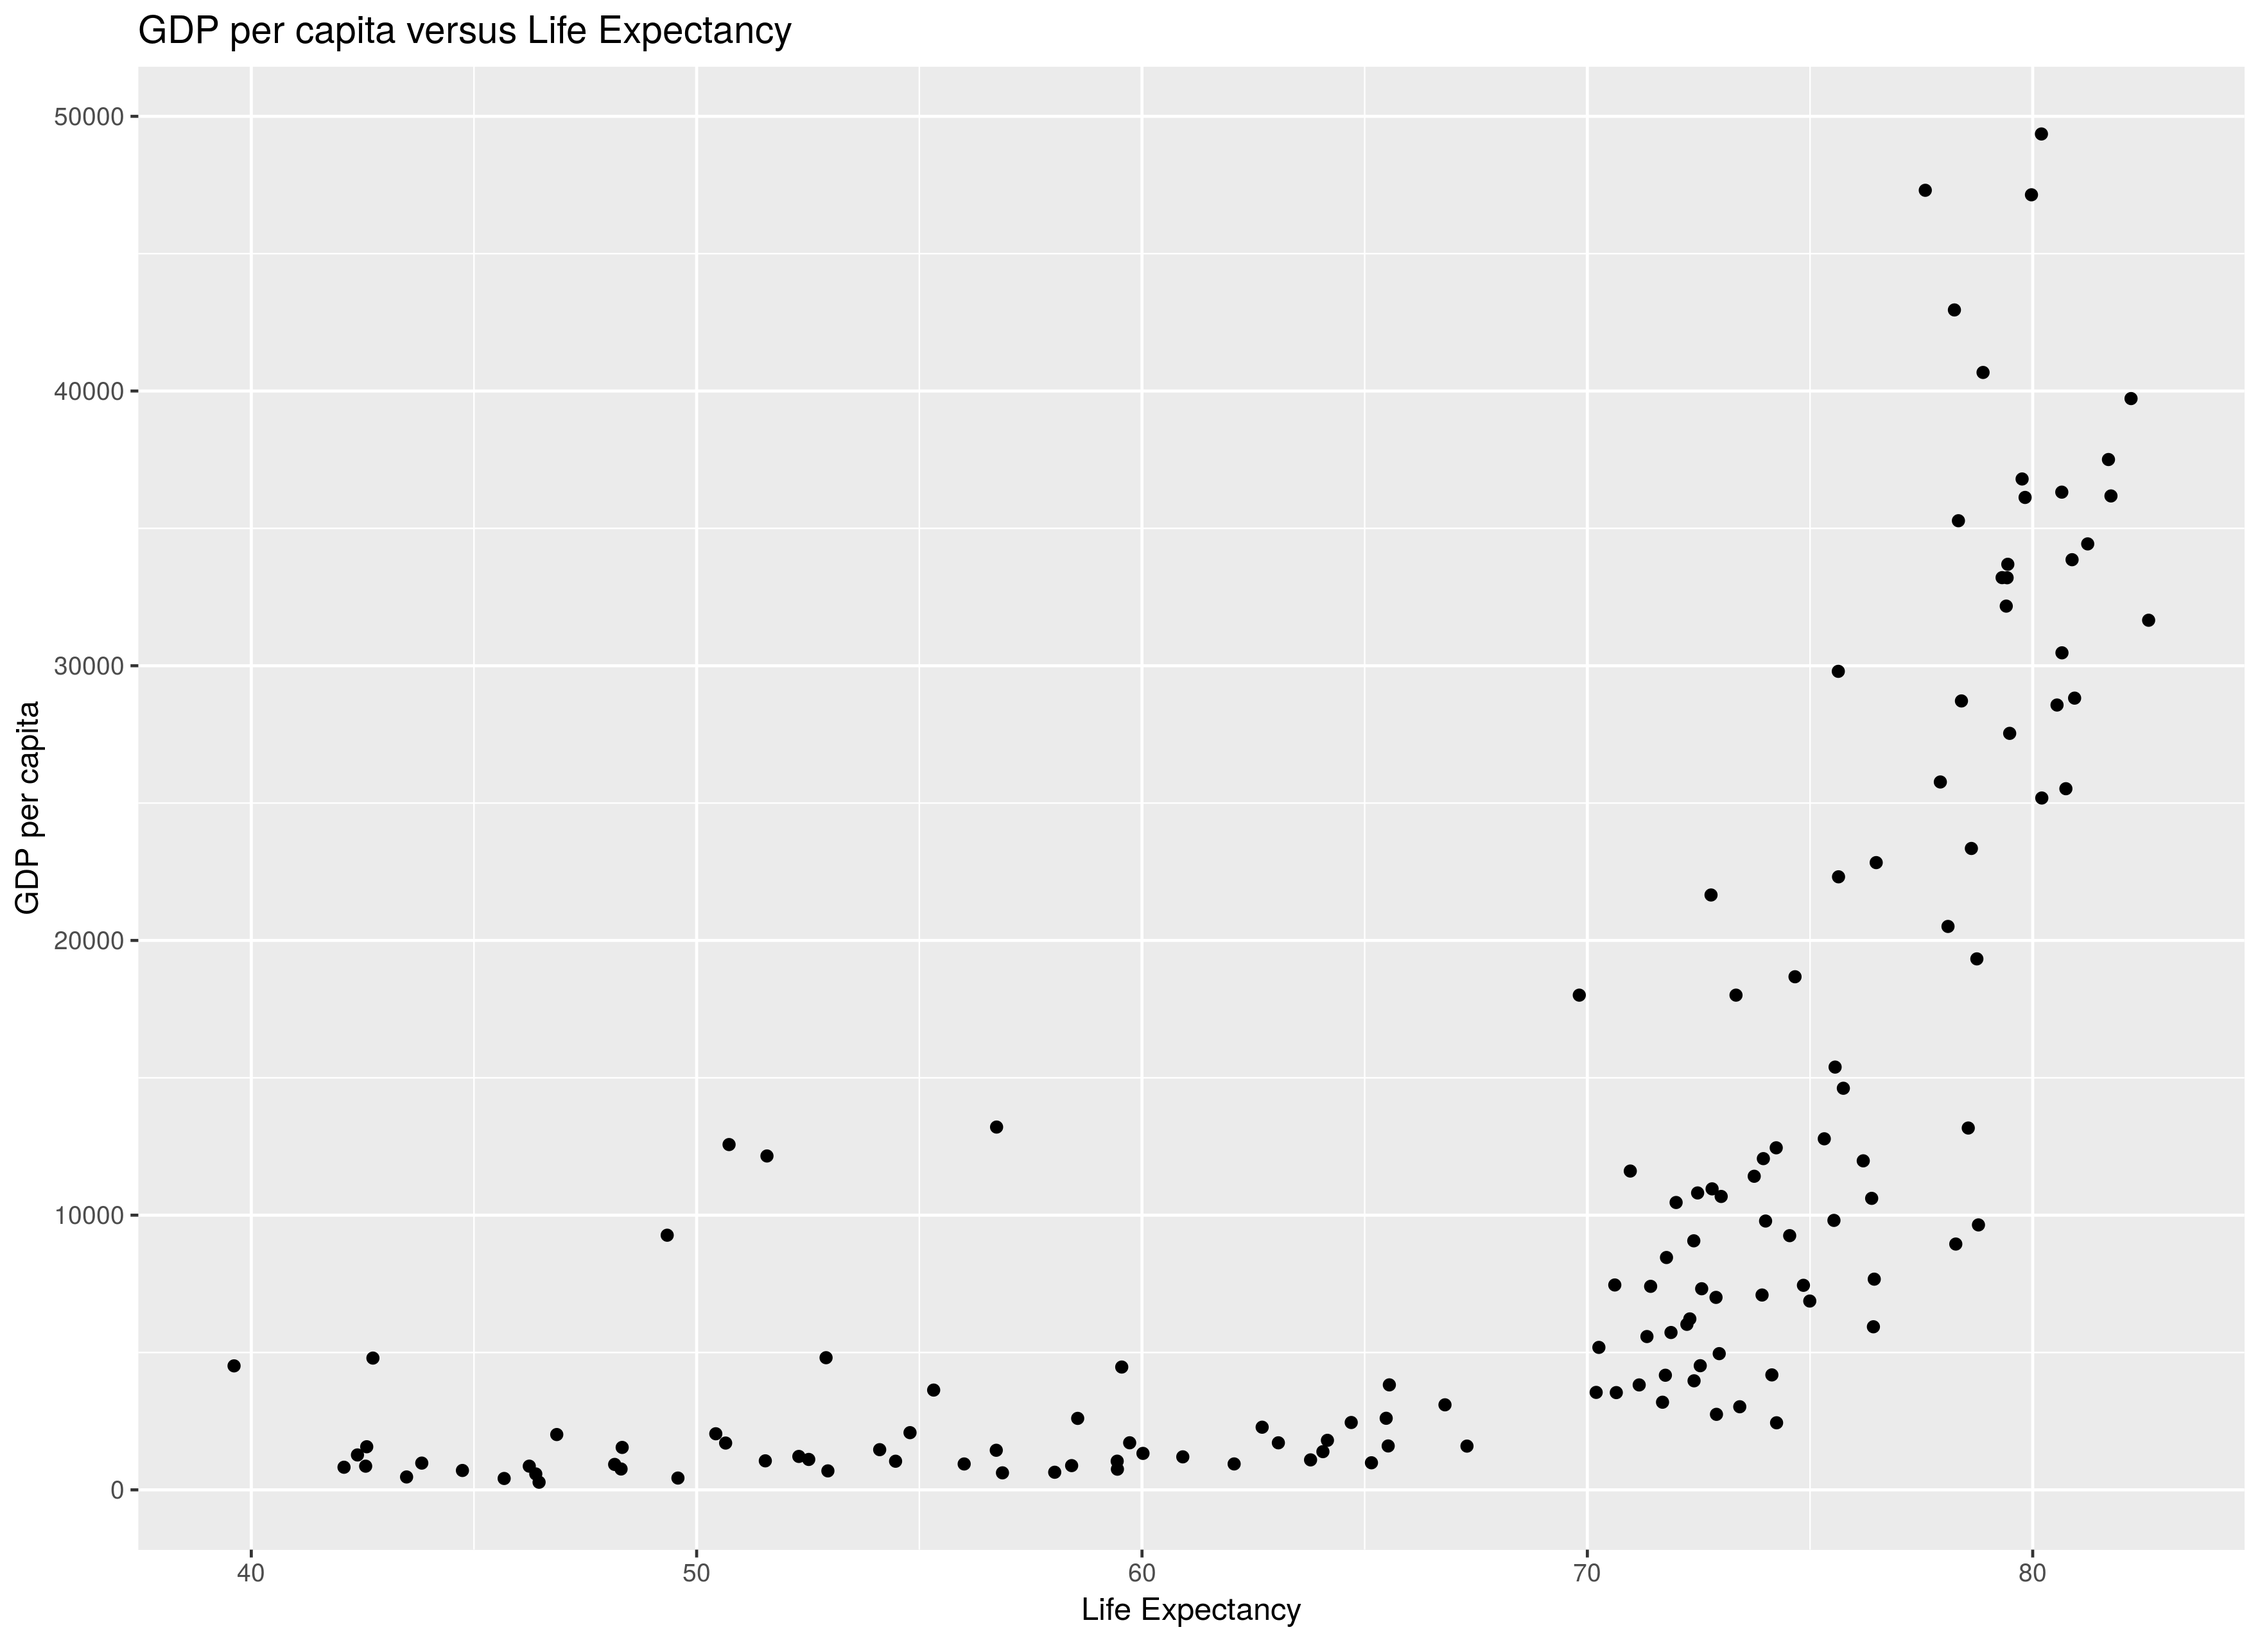
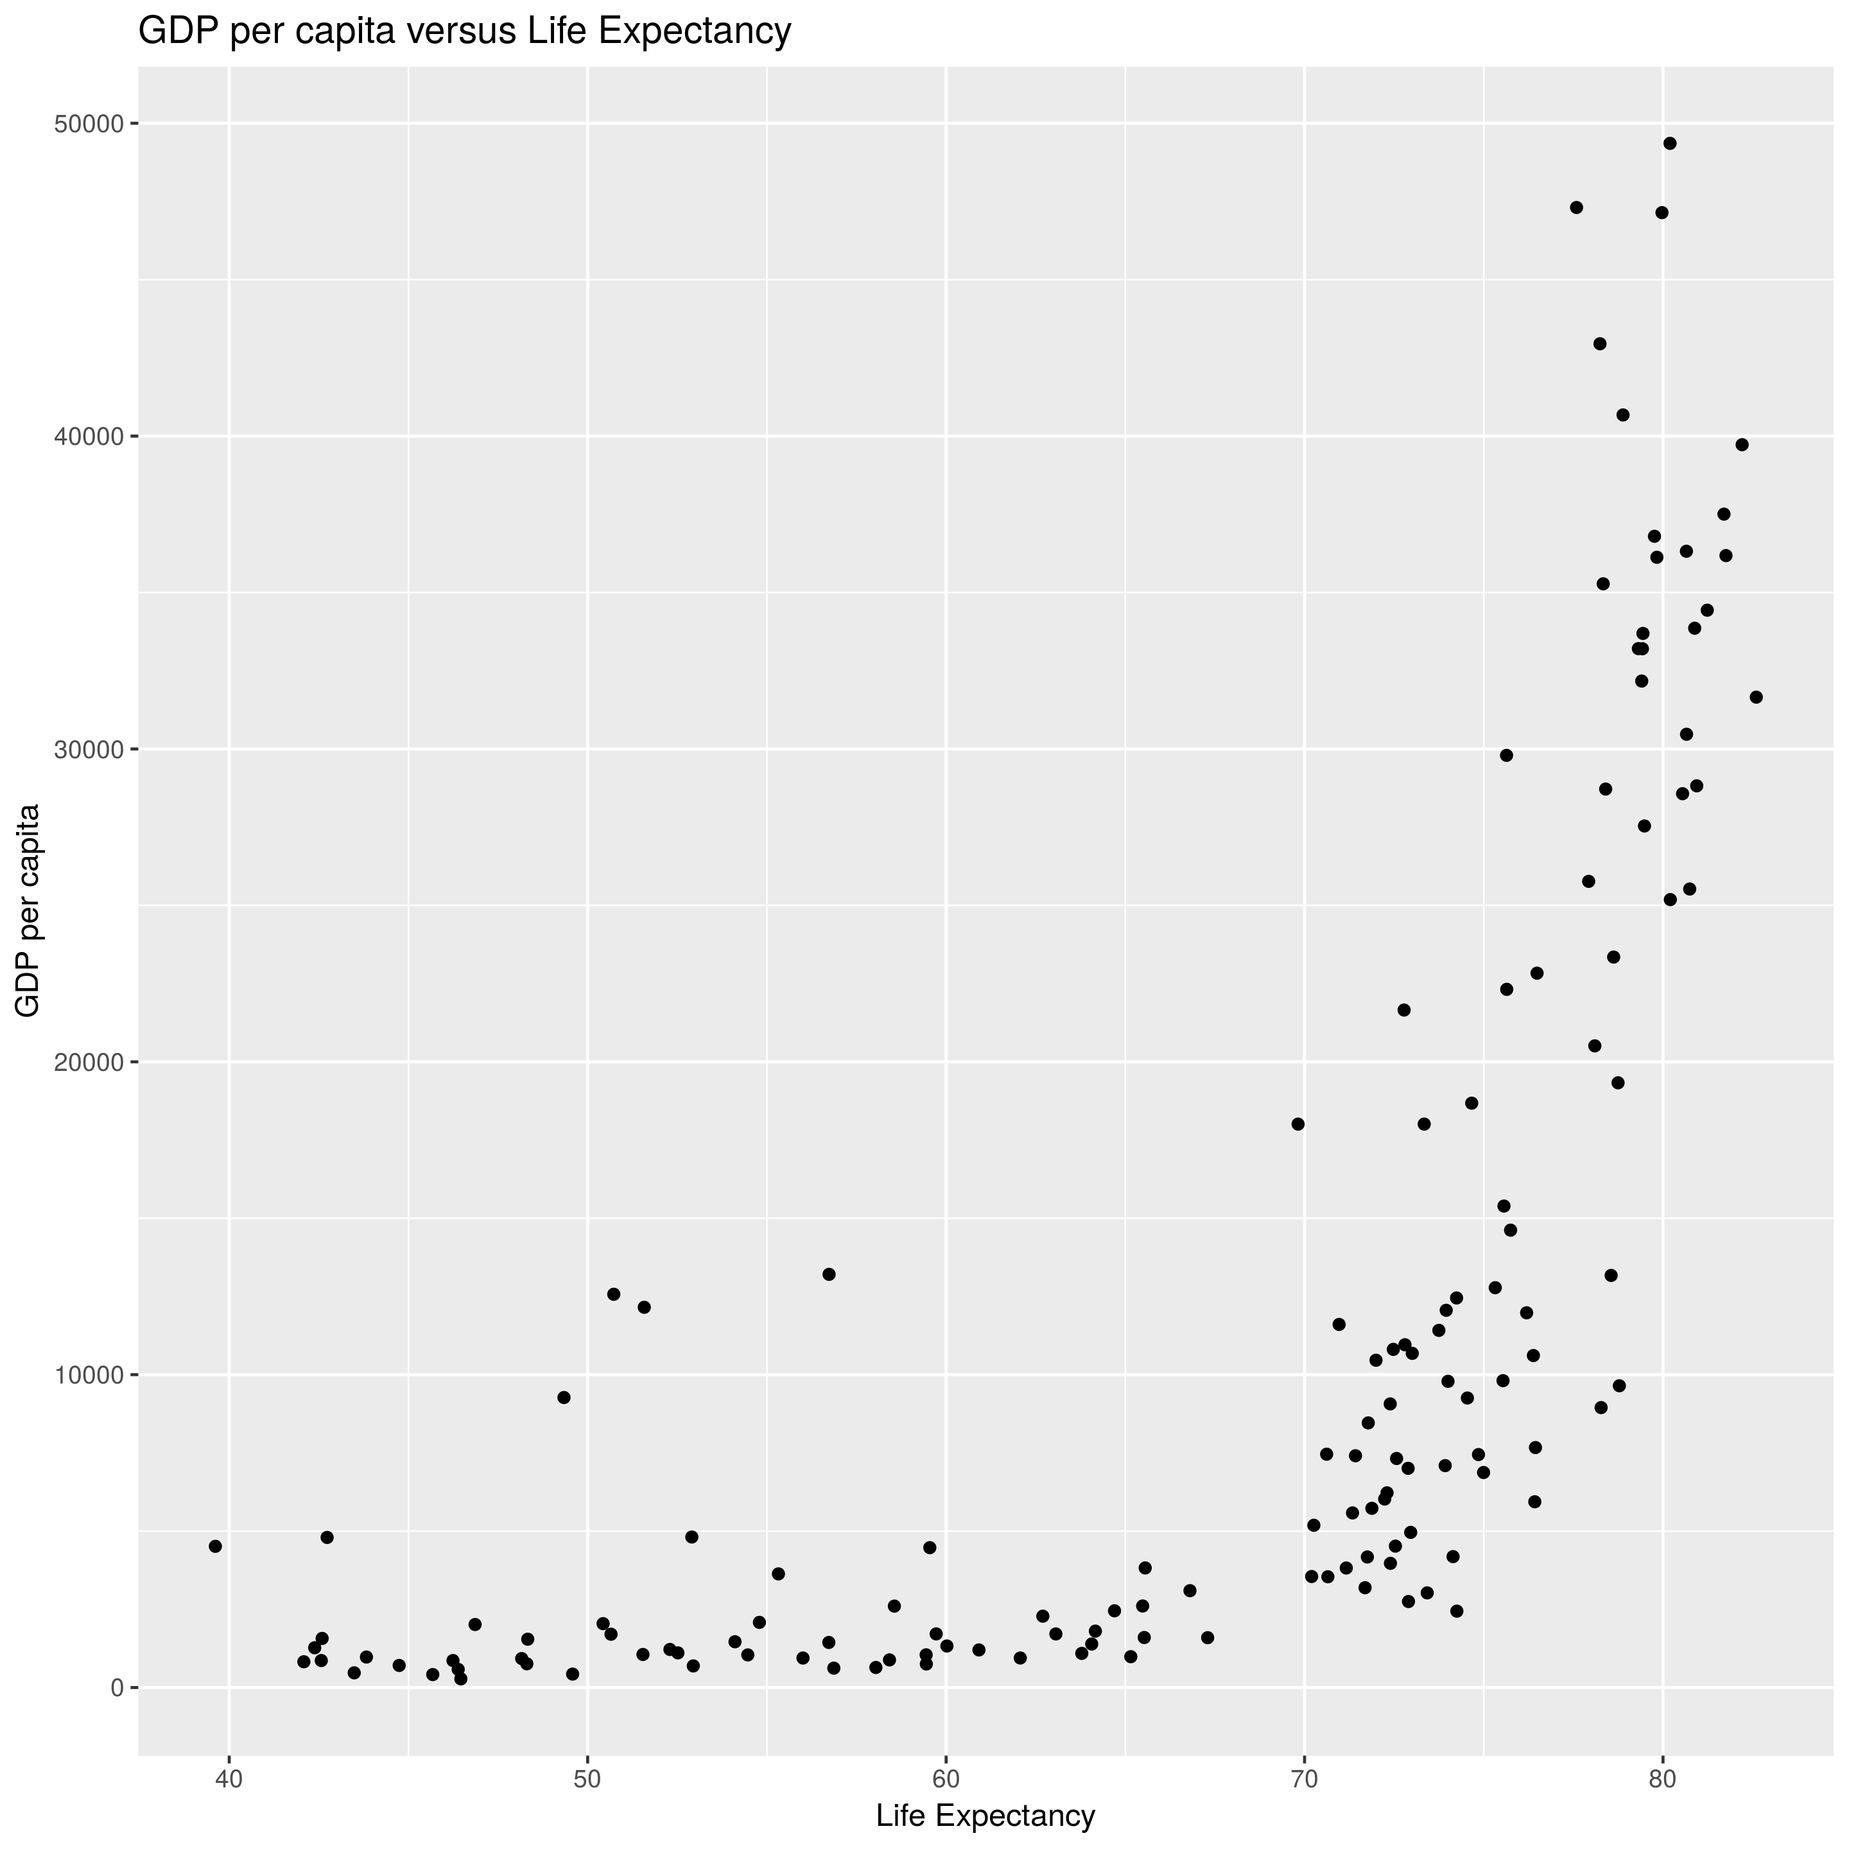
Plot changes

diff --git a/Gapminder-Exploration.md b/Gapminder-Exploration.md
@@ -107,7 +107,7 @@ plot <- ggplot(df, aes(lifeExp, gdpPercap)) +
   xlab("Life Expectancy") +
   ylab("GDP per capita") +
   ggtitle("GDP per capita versus Life Expectancy")
-ggsave("GDP-LifeExp-plot.png", plot, width = 11, height = 8, dpi = "retina") # save plot to file
+ggsave("GDP-LifeExp-plot.png", plot, width = 9, height = 9, dpi = "retina") # save plot to file
 ```
 
 ![Plot](https://github.com/STAT545-UBC-students/hw05-curtis77/blob/master/GDP-LifeExp-plot.png)
